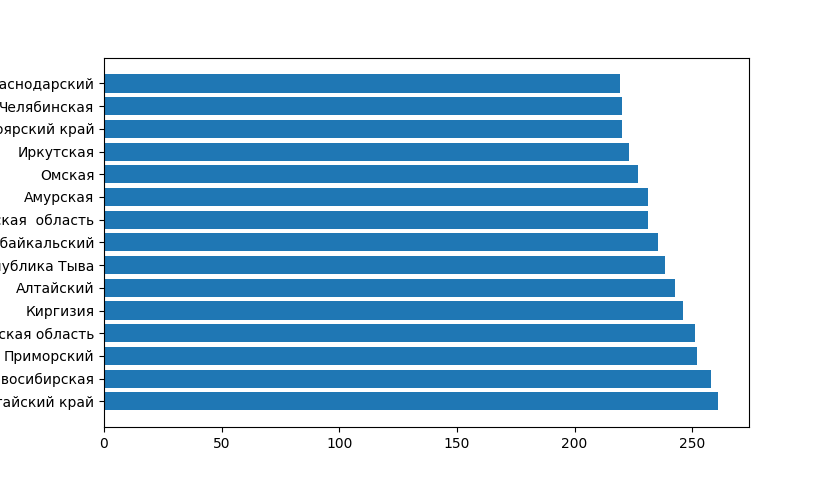
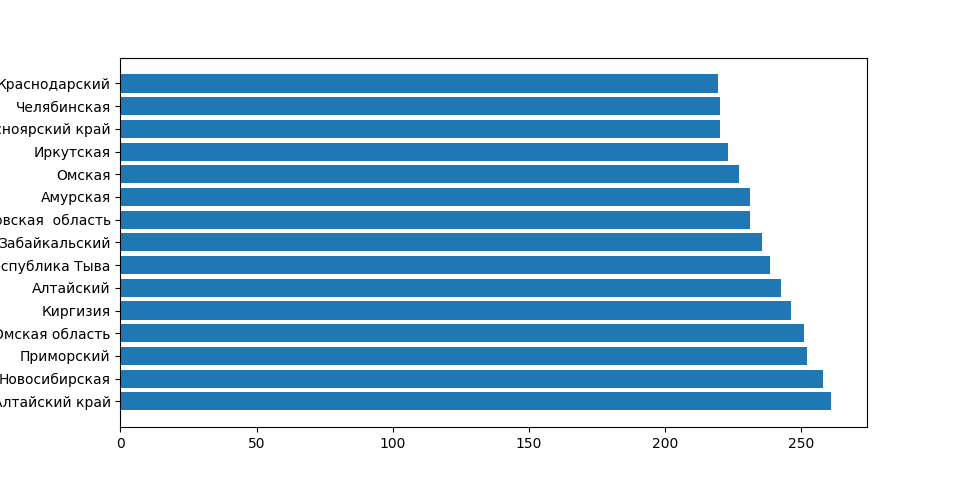
Диаграмма регион ~ баллы

diff --git a/1.py b/1.py
@@ -8,6 +8,7 @@ indexis = pd.Index(np.arange(1, 202))
 cs = cs.set_index(indexis)
 cs = cs.loc[:,'ID':'Какие направления были приоритетными при поступлении в вуз?']
 cs = cs.loc[1:200]
+cs['Количество олимпиад'] = cs['Количество олимпиад'].fillna(0)
 cs = cs.fillna('-')
 cs.loc[(cs.Физика == ''), 'Физика'] = 0
 cs.loc[(cs.Физика == '-'), 'Физика'] = 0
@@ -17,44 +18,73 @@ cs['Информатика'] = pd.to_numeric(cs['Информатика'])
 cs['Русский'] = pd.to_numeric(cs['Русский'])
 cs['Математика'] = pd.to_numeric(cs['Математика'])
 cs['Количество олимпиад'] = pd.to_numeric(cs['Количество олимпиад'])
-cs.loc[(cs.Количествоолимпиад == '-'), 'Количество олимпиад'] = 0
+
 cs = pd.DataFrame(cs)
 regions = []
 for i in cs['Населенный пункт']:
     i = ((i.split(','))[0]).strip()
+
     regions.append(i)
 regions = pd.Series(regions)
 cs['Регион'] = regions
 cs = cs.fillna('-')
 
+def regions_for_ege():
+    """Зависимость регионов"""
+    reg = cs['Сумма баллов'].groupby(cs['Регион']).mean()
+    reg = pd.Series(reg)
 
-"""Зависимость регионов"""
-"""reg = cs['Сумма баллов'].groupby(cs['Регион']).mean()
-reg = pd.Series(reg)
+    reg = reg.sort_values(ascending=False)
+    diag = reg.head(15)
+    x = diag.index.values
+    y = diag.values
+    x, y = np.array(x), np.array(y)
+    print(x)
+    fig, ax = plt.subplots()
+    ax.barh(x, y)
+    plt.show()
+    fig.savefig('region_for_ege')
+    print(diag)
 
-reg = reg.sort_values(ascending=False)
-diag = reg.head(15)
-x = diag.index.values
-y = diag.values
-x, y = np.array(x), np.array(y)
-print(x)
-fig, ax = plt.subplots()
-ax.barh(x, y)
-plt.show()
-fig.savefig('region_for_ege')
-print(diag)
-"""
-"""Количество олимпиадников от региона"""
-olymp = cs['Количество олимпиад'].groupby(cs['Регион']).mean()
-olymp = pd.Series(olymp)
+def olymp_in_region():
+    """Количество олимпиадников от региона"""
+    olymp = cs.groupby(by=['Регион','Принимали ли Вы участие в олимпиадах по математике или информатике за период с 8 класса по настоящее время?'])
 
-olymp = olymp.sort_values(ascending=False)
-best = olymp.head(15)
-x = best.index.values
-y = best.values
-x, y = np.array(x), np.array(y)
-print(best)
-fig, ax = plt.subplots()
-ax.barh(x, y)
-plt.show()
-fig.savefig('region_for_olymp')
+    #print((olymp['Принимали ли Вы участие в олимпиадах по математике или информатике за период с 8 класса по настоящее время?']).count())
+    itog = (olymp['Принимали ли Вы участие в олимпиадах по математике или информатике за период с 8 класса по настоящее время?']).count()
+    itog = pd.DataFrame(itog[1:])
+    itog = itog['Принимали ли Вы участие в олимпиадах по математике или информатике за период с 8 класса по настоящее время?']
+    data = {}
+    for i in itog.index:
+        i = list(i)
+        l = i.copy()
+        if 'Республика' not in i[0]:
+            i[0] = i[0].split()[0]
+        if i[1] == '-':
+            continue
+        if i[0] in data.keys() and i[1] in data[i[0]].keys():
+            data[i[0]][i[1]] += itog[l[0], l[1]]
+        elif i[0] in data.keys():
+            data[i[0]][i[1]] = itog[l[0], l[1]]
+        else:
+            data[i[0]] = {}
+            data[i[0]][i[1]] = itog[l[0], l[1]]
+    s = []
+    for i, j in data.items():
+        y, n = 0, 0
+        if 'Да' in j.keys():
+            y = j['Да']
+        if 'Нет' in j.keys():
+            n = j['Нет']
+        if y != 0 and n != 0:
+            s.append([i, y / (y + n) * 100])
+    s = s[:-1]
+    s = sorted(s, key=lambda x: x[1], reverse=True)
+    data = [i[1] for i in s]
+    ind = [i[0] for i in s]
+    fig, ax = plt.subplots()
+    ax.barh(ind, data)
+    plt.show()
+    fig.savefig('region_for_olymp')
+
+
